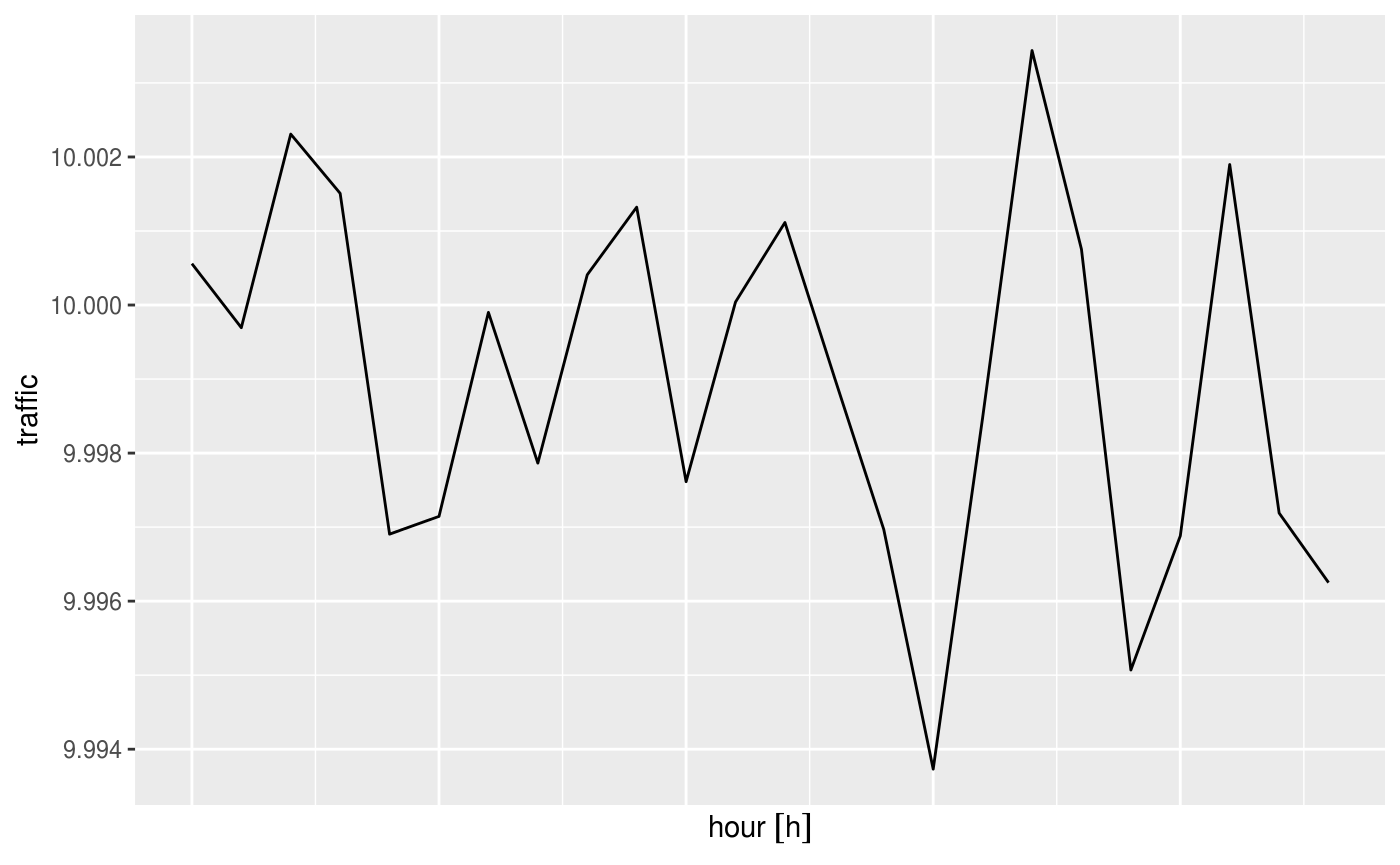
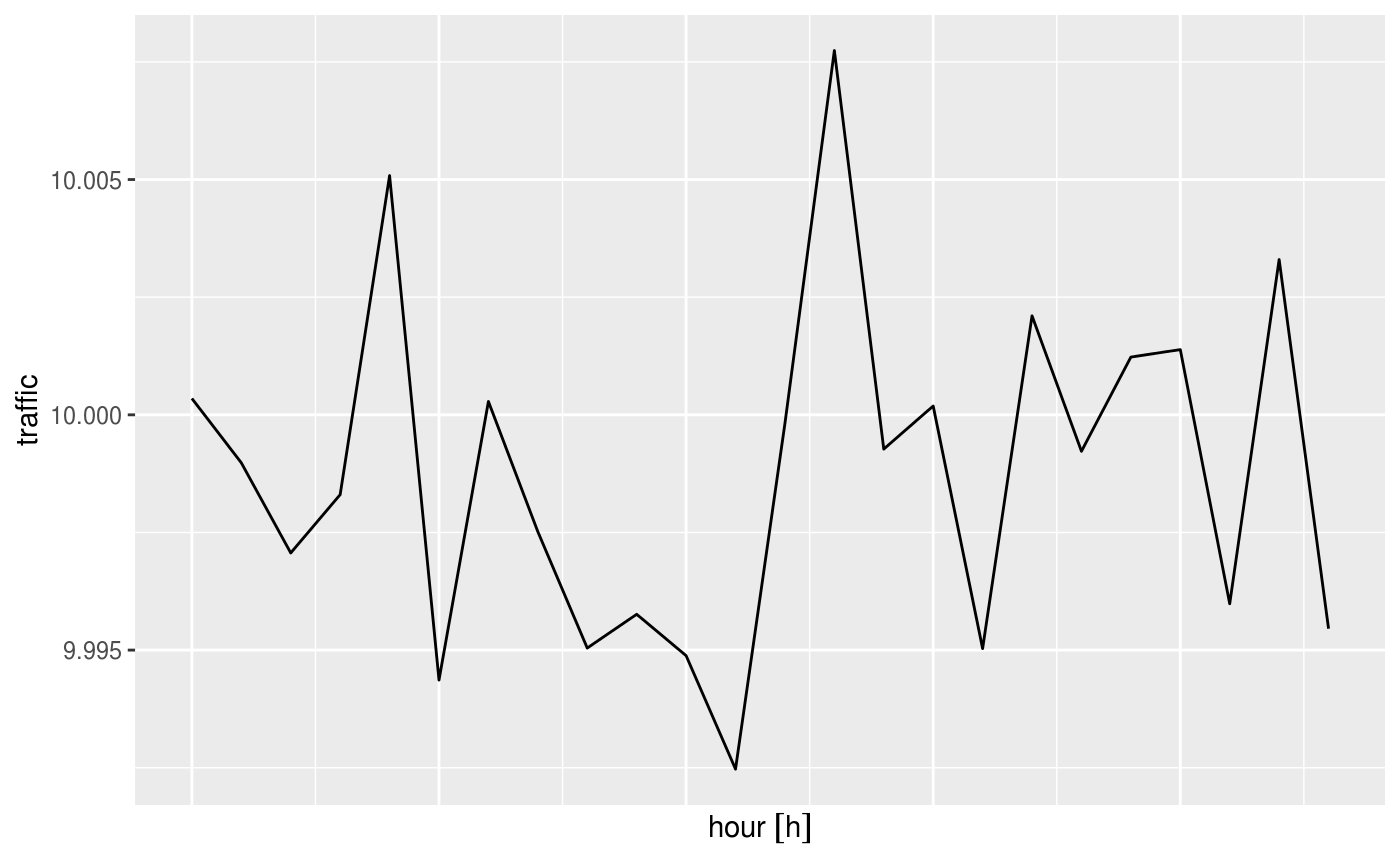
Deploy from Travis build 705 [ci skip]
Build URL: https://travis-ci.org/r-spatial/stars/builds/659769709
Commit: 5a9abf87f669b24129cd4893f1be04510354247e

diff --git a/articles/stars1.html b/articles/stars1.html
@@ -558,13 +558,13 @@
 <a class="sourceLine" id="cb22-21" data-line-number="21">(<span class="dt">st =</span> <span class="kw"><a href="../reference/st_as_stars.html">st_as_stars</a></span>(<span class="kw"><a href="https://rdrr.io/r/base/list.html">list</a></span>(<span class="dt">traffic =</span> traffic),  <span class="dt">dimensions =</span> dims))</a>
 <a class="sourceLine" id="cb22-22" data-line-number="22">## stars object with 5 dimensions and 1 attribute</a>
 <a class="sourceLine" id="cb22-23" data-line-number="23">## attribute(s), summary of first 1e+05 cells:</a>
-<a class="sourceLine" id="cb22-24" data-line-number="24">##     traffic     </a>
-<a class="sourceLine" id="cb22-25" data-line-number="25">##  Min.   : 0.00  </a>
-<a class="sourceLine" id="cb22-26" data-line-number="26">##  1st Qu.: 8.00  </a>
-<a class="sourceLine" id="cb22-27" data-line-number="27">##  Median :10.00  </a>
-<a class="sourceLine" id="cb22-28" data-line-number="28">##  Mean   :10.01  </a>
-<a class="sourceLine" id="cb22-29" data-line-number="29">##  3rd Qu.:12.00  </a>
-<a class="sourceLine" id="cb22-30" data-line-number="30">##  Max.   :27.00  </a>
+<a class="sourceLine" id="cb22-24" data-line-number="24">##     traffic      </a>
+<a class="sourceLine" id="cb22-25" data-line-number="25">##  Min.   : 0.000  </a>
+<a class="sourceLine" id="cb22-26" data-line-number="26">##  1st Qu.: 8.000  </a>
+<a class="sourceLine" id="cb22-27" data-line-number="27">##  Median :10.000  </a>
+<a class="sourceLine" id="cb22-28" data-line-number="28">##  Mean   : 9.988  </a>
+<a class="sourceLine" id="cb22-29" data-line-number="29">##  3rd Qu.:12.000  </a>
+<a class="sourceLine" id="cb22-30" data-line-number="30">##  Max.   :28.000  </a>
 <a class="sourceLine" id="cb22-31" data-line-number="31">## dimension(s):</a>
 <a class="sourceLine" id="cb22-32" data-line-number="32">##             from  to                      offset                       delta</a>
 <a class="sourceLine" id="cb22-33" data-line-number="33">## origin         1 100                          NA                          NA</a>

diff --git a/reference/read_stars.html b/reference/read_stars.html
@@ -336,7 +336,7 @@ has to be one of: "nearest_neighbour" (the default),
 <span class='fu'><a href='write_stars.html'>write_stars</a></span>(<span class='no'>st</span>, <span class='no'>tmp</span>)
 (<span class='no'>red</span> <span class='kw'>&lt;-</span> <span class='fu'>read_stars</span>(<span class='no'>tmp</span>))</div><div class='output co'>#&gt; stars object with 2 dimensions and 1 attribute
 #&gt; attribute(s):
-#&gt;  file50cd2f6ba0d5.tif 
+#&gt;  file513a5107cd9b.tif 
 #&gt;  Min.   :  1.00       
 #&gt;  1st Qu.: 30.75       
 #&gt;  Median : 60.50       
@@ -352,7 +352,7 @@ has to be one of: "nearest_neighbour" (the default),
 #&gt; [2,]   38   98</div><div class='input'>(<span class='no'>red</span> <span class='kw'>&lt;-</span> <span class='fu'>read_stars</span>(<span class='no'>tmp</span>, <span class='kw'>RasterIO</span> <span class='kw'>=</span> <span class='fu'><a href='https://rdrr.io/r/base/list.html'>list</a></span>(<span class='kw'>nXOff</span> <span class='kw'>=</span> <span class='fl'>1</span>, <span class='kw'>nYOff</span> <span class='kw'>=</span> <span class='fl'>1</span>, <span class='kw'>nXsize</span> <span class='kw'>=</span> <span class='fl'>10</span>, <span class='kw'>nYSize</span> <span class='kw'>=</span> <span class='fl'>12</span>,
    <span class='kw'>nBufXSize</span> <span class='kw'>=</span> <span class='fl'>2</span>, <span class='kw'>nBufYSize</span> <span class='kw'>=</span> <span class='fl'>2</span>)))</div><div class='output co'>#&gt; stars object with 2 dimensions and 1 attribute
 #&gt; attribute(s):
-#&gt;  file50cd2f6ba0d5.tif 
+#&gt;  file513a5107cd9b.tif 
 #&gt;  Min.   :33.00        
 #&gt;  1st Qu.:36.75        
 #&gt;  Median :65.50        

diff --git a/articles/stars2.html b/articles/stars2.html
@@ -276,7 +276,7 @@
 <div class="sourceCode" id="cb8"><pre class="sourceCode r"><code class="sourceCode r"><a class="sourceLine" id="cb8-1" data-line-number="1"><span class="kw"><a href="https://rdrr.io/r/base/system.time.html">system.time</a></span>(<span class="kw"><a href="../reference/plot.html">plot</a></span>(p))</a></code></pre></div>
 <p><img src="stars2_files/figure-html/unnamed-chunk-8-1.png" width="700"></p>
 <pre><code>##    user  system elapsed 
-##   1.720   0.644   1.496</code></pre>
+##   1.568   0.728   1.456</code></pre>
 <p>This takes only around 1 second, since only those pixels are read that can be seen on the plot. If we read the entire image in memory first, as we would do with</p>
 <div class="sourceCode" id="cb10"><pre class="sourceCode r"><code class="sourceCode r"><a class="sourceLine" id="cb10-1" data-line-number="1">p =<span class="st"> </span><span class="kw"><a href="../reference/read_stars.html">read_stars</a></span>(s2, <span class="dt">proxy =</span> <span class="ot">FALSE</span>)</a></code></pre></div>
 <p>then only the reading would take over a minute, and require 5 Gb memory.</p>
@@ -415,7 +415,7 @@
 <a class="sourceLine" id="cb17-17" data-line-number="17"><span class="kw"><a href="https://rdrr.io/r/base/system.time.html">system.time</a></span>(<span class="kw"><a href="../reference/plot.html">plot</a></span>(s2.ndvi)) <span class="co"># read - compute ndvi - plot </span></a></code></pre></div>
 <p><img src="stars2_files/figure-html/unnamed-chunk-16-1.png" width="700"></p>
 <pre><code>##    user  system elapsed 
-##   1.796   0.688   1.625</code></pre>
+##   1.708   0.696   1.573</code></pre>
 </div>
 </div>
 </div>
